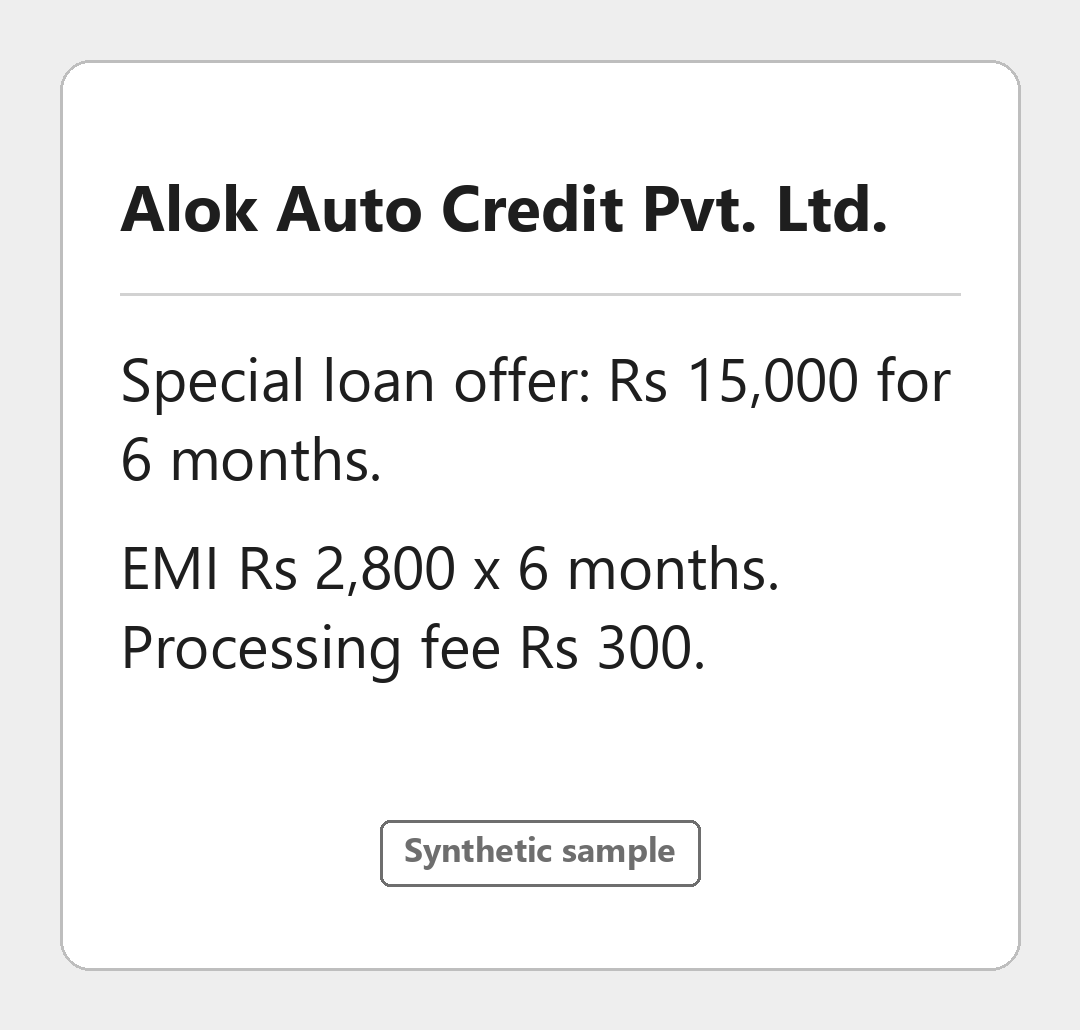
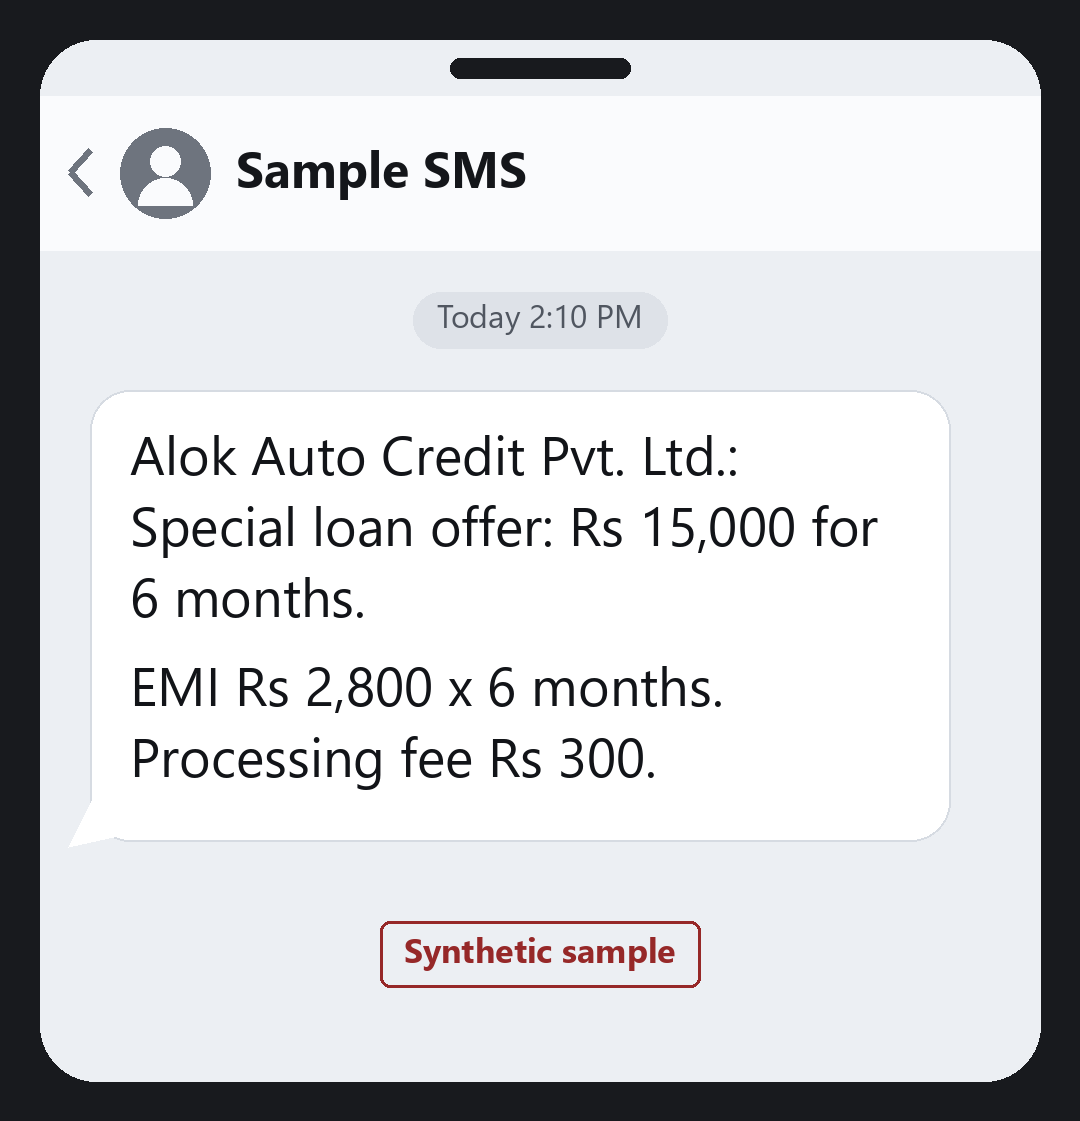
data: demo pack, tear-off tabs on image 04 and phone frame for image 10 (G1)

Changed region(s): [[0.0, 0.0, 1.0, 1.0], [0.0917, 0.3417, 0.8861, 0.7146], [0.3361, 0.8078, 0.6722, 0.8699]]

diff --git a/scripts/make_demo_pack.py b/scripts/make_demo_pack.py
@@ -300,9 +300,15 @@ def pamphlet(item):
     draw_text(img, ((W - tw) / 2, 1070), L[4], 70, (30, 30, 30), True)
     for xx in range(40, W - 40, 40):                           # tear-off strip
         d.line([(xx, 1240), (xx + 20, 1240)], fill=(120, 100, 40), width=4)
-    for i in range(5):                                         # 5 tear-off slips, centred
+    tab = L[0]                                                 # the lender's name, as on real tear-offs
+    tab_size = 30
+    while width(tab, tab_size, True) > 136 and tab_size > 18:
+        tab_size -= 1
+    for i in range(5):                                         # 5 tear-off slips, centred, name in each
         cx = 105 + i * 180
         d.rectangle((cx, 1270, cx + 150, 1400), outline=(120, 100, 40), width=3)
+        tw = width(tab, tab_size, True)
+        draw_text(img, (cx + (150 - tw) / 2, 1312), tab, tab_size, (120, 30, 30), True)
     sample_stamp(img, d, L[5], 1470)
     L.check()
     return img
@@ -382,8 +388,11 @@ def notice(item):
     return img
 
 
+# 10 is a real company on RBI's cancelled list: same neutral grey phone frame as 08, sender "Sample SMS"
+# (not the company name: the warning needs the exact name, read from the message itself).
 DESIGNS = {"01": sms, "02": app_ad, "03": whatsapp, "04": pamphlet, "05": sms, "06": email,
-           "07": flyer, "08": lambda it: sms(it, accent=(110, 116, 126)), "09": sms, "10": notice}
+           "07": flyer, "08": lambda it: sms(it, accent=(110, 116, 126)), "09": sms,
+           "10": lambda it: sms(it, accent=(110, 116, 126))}
 
 
 def main() -> None:

diff --git a/docs/progress/2026-11-14_0550_G1-images-fix_gurpreet.md b/docs/progress/2026-11-14_0550_G1-images-fix_gurpreet.md
@@ -1,0 +1,8 @@
+# G1 · demo pack: image 04 tear-off tabs, image 10 in the phone frame (review fix on PR #56)
+- When: 14 Nov 2026, 5:50 AM IST · Who: agent for Gurpreet (on Siddeshwar's branch, after his P5)
+- Did: 04.png's five tear-off slips were empty boxes that look like missing characters when printed; each now carries the lender's name ("गल्ला गो लोन", the same line as the headline, so nothing new for the reader). 10.png moves from the plain card into the same neutral grey phone-SMS frame as 08.png, sender "Sample SMS" (not the company name: the RBI cancelled-registration warning needs the exact name, read from the message, which now starts "Alok Auto Credit Pvt. Ltd.: ..."). Only item 10's text_on_image and looks_like changed in demo_pack.json; no expected answer changed.
+- Files: scripts/make_demo_pack.py, api/data/offers/demo_pack.json (item 10 text only), api/data/offers/demo/04.png, demo/10.png
+- Proof: re-rendering changes only 04 and 10 (the other 8 are byte-identical); a second run changes nothing. Real API (qwen): 10 -> 14700 / 16800 / 180 days / 2100, USUAL, warning "Alok Auto Credit Pvt. Ltd.", next step ON_WARNING_LIST (2.4 s); 04 -> 50000 / 60000 / 90 days / 10000, COSTLY, pay_first -> DO_NOT_PAY_FIRST (9.7 s). Both equal the hand-written expected answers.
+- Status in docs/TASKS.md: G1 stays review
+- Next: print the pack (G3).
+- Broken / risks: none known.
